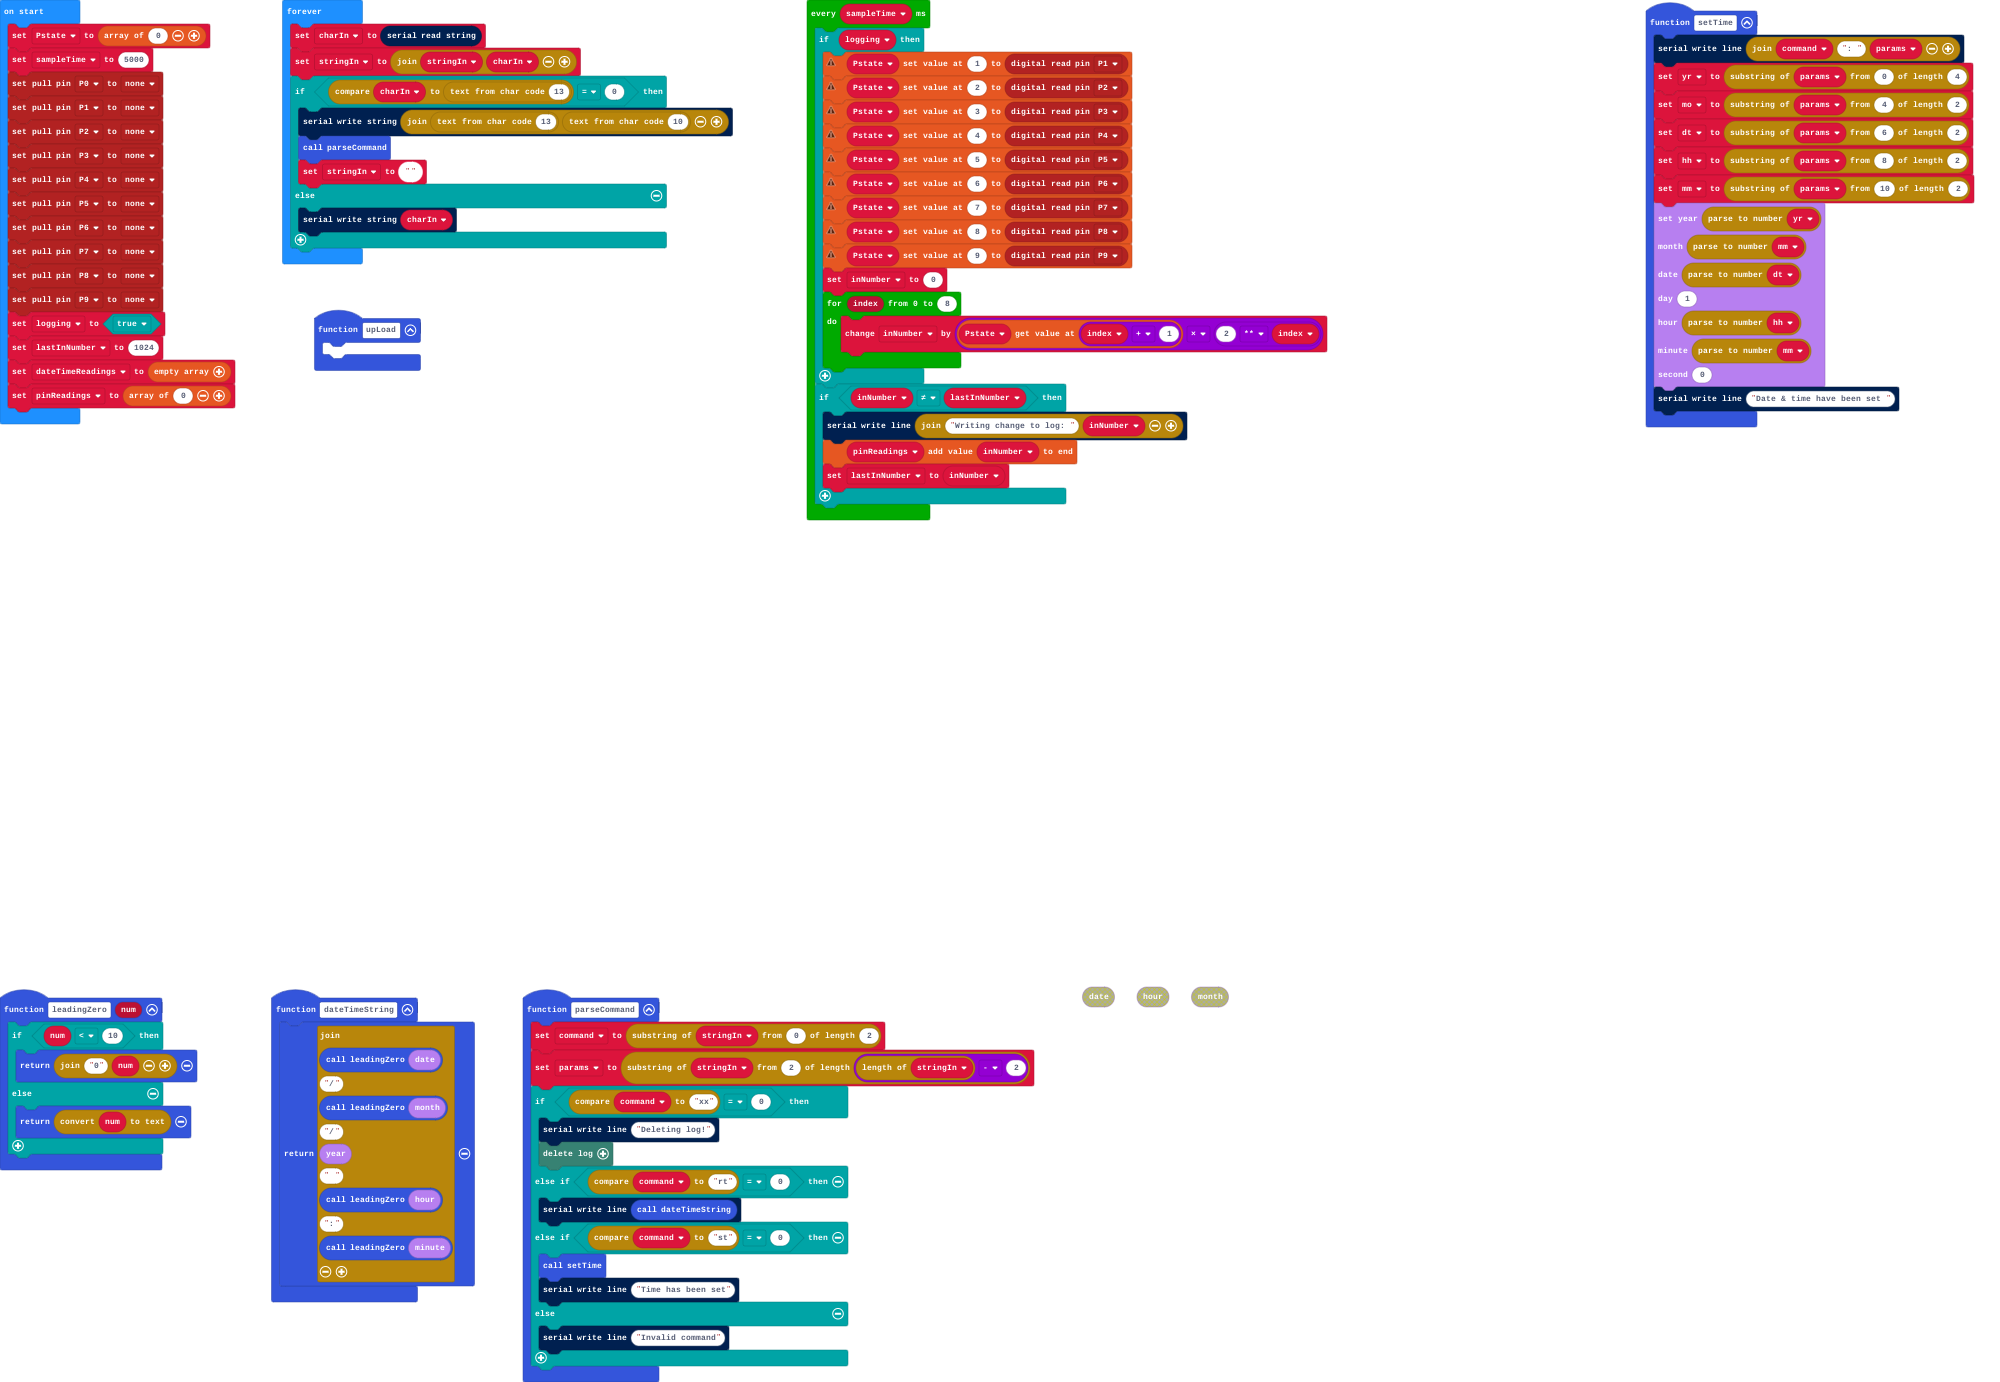
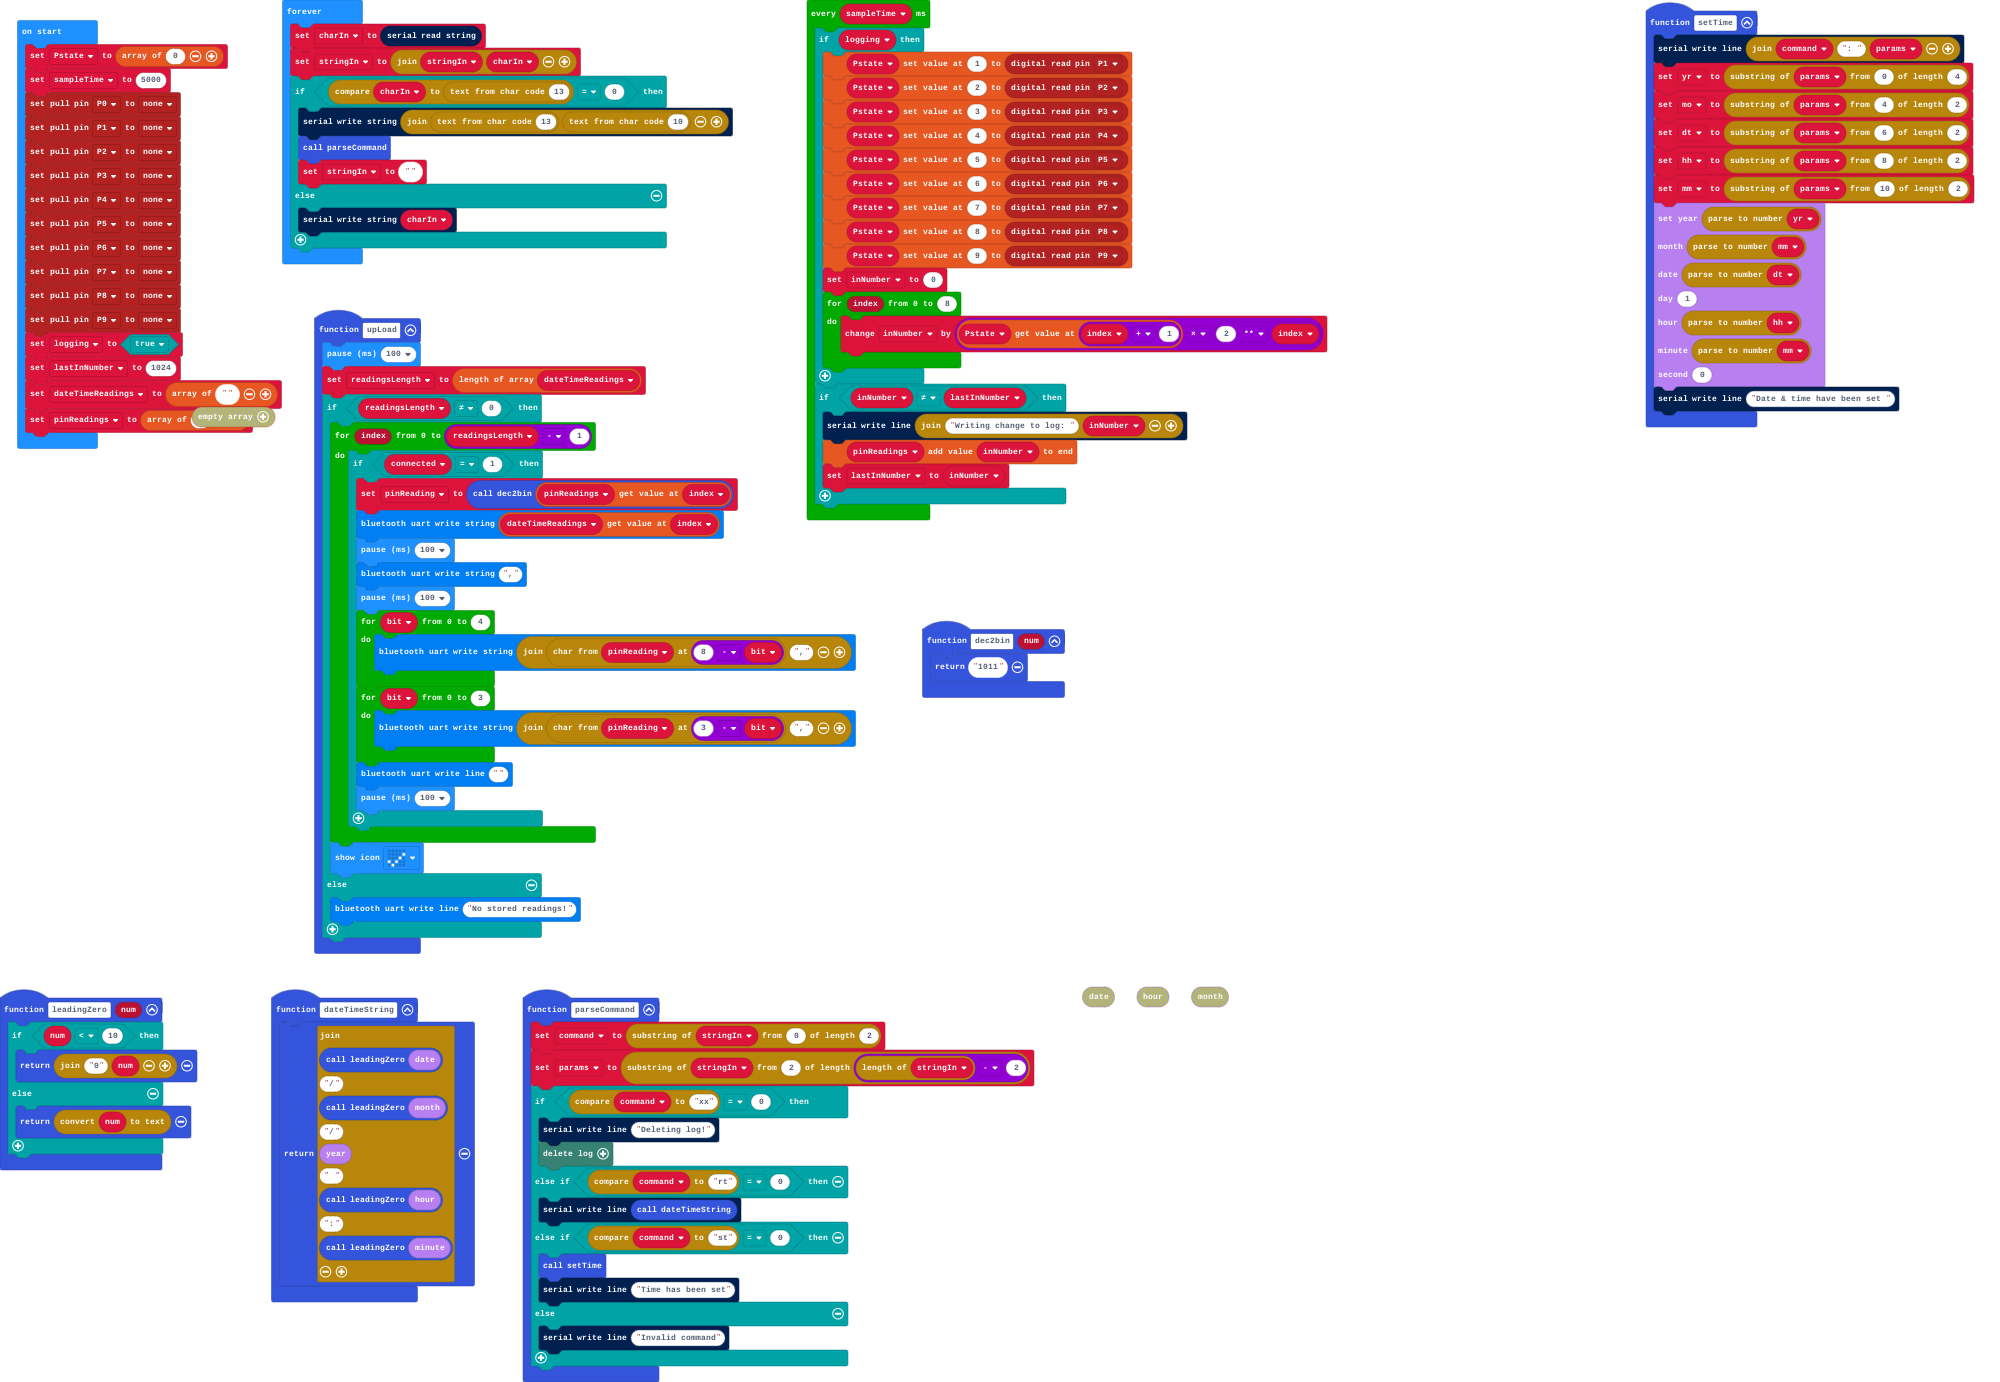
added upload for BT

Changed region(s): [[0.0, 0.0, 0.527, 0.7156]]

diff --git a/main.ts b/main.ts
@@ -13,6 +13,9 @@ function parseCommand () {
         serial.writeLine("Invalid command")
     }
 }
+function dec2bin (num: number) {
+    return "1011"
+}
 function leadingZero (num: number) {
     if (num < 10) {
         return "0" + num
@@ -21,7 +24,31 @@ function leadingZero (num: number) {
     }
 }
 function upLoad () {
-	
+    basic.pause(100)
+    readingsLength = dateTimeReadings.length
+    if (readingsLength != 0) {
+        for (let index = 0; index <= readingsLength - 1; index++) {
+            let connected = 0
+            if (connected == 1) {
+                pinReading = dec2bin(pinReadings[index])
+                bluetooth.uartWriteString(dateTimeReadings[index])
+                basic.pause(100)
+                bluetooth.uartWriteString(",")
+                basic.pause(100)
+                for (let bit = 0; bit <= 4; bit++) {
+                    bluetooth.uartWriteString("" + pinReading.charAt(8 - bit) + ",")
+                }
+                for (let bit = 0; bit <= 3; bit++) {
+                    bluetooth.uartWriteString("" + pinReading.charAt(3 - bit) + ",")
+                }
+                bluetooth.uartWriteLine("")
+                basic.pause(100)
+            }
+        }
+        basic.showIcon(IconNames.Yes)
+    } else {
+        bluetooth.uartWriteLine("No stored readings!")
+    }
 }
 function dateTimeString () {
     return "" + leadingZero(DS3231.date()) + "/" + leadingZero(DS3231.month()) + "/" + DS3231.year() + " " + leadingZero(DS3231.hour()) + ":" + leadingZero(DS3231.minute())
@@ -45,15 +72,19 @@ function setTime () {
     serial.writeLine("Date & time have been set ")
 }
 let inNumber = 0
-let charIn: string = []
-let mm: string = []
-let hh: string = []
-let dt: string = []
-let mo: string = []
-let yr: string = []
-let params: string = []
-let stringIn: string = []
-let command: string = []
+let charIn = ""
+let mm = ""
+let hh = ""
+let dt = ""
+let mo = ""
+let yr = ""
+let pinReading = ""
+let readingsLength = 0
+let params = ""
+let stringIn = ""
+let command = ""
+let pinReadings: number[] = []
+let dateTimeReadings: string[] = []
 let Pstate = [0]
 let sampleTime = 5000
 pins.setPull(DigitalPin.P0, PinPullMode.PullNone)
@@ -68,8 +99,8 @@ pins.setPull(DigitalPin.P8, PinPullMode.PullNone)
 pins.setPull(DigitalPin.P9, PinPullMode.PullNone)
 let logging = true
 let lastInNumber = 1024
-let dateTimeReadings: number[] = []
-let pinReadings = [0]
+dateTimeReadings = [""]
+pinReadings = [0]
 basic.forever(function () {
     charIn = serial.readString()
     stringIn = "" + stringIn + charIn
@@ -78,7 +109,7 @@ basic.forever(function () {
         parseCommand()
         stringIn = ""
     } else {
-        serial.writeString("" + (charIn))
+        serial.writeString(charIn)
     }
 })
 loops.everyInterval(sampleTime, function () {
